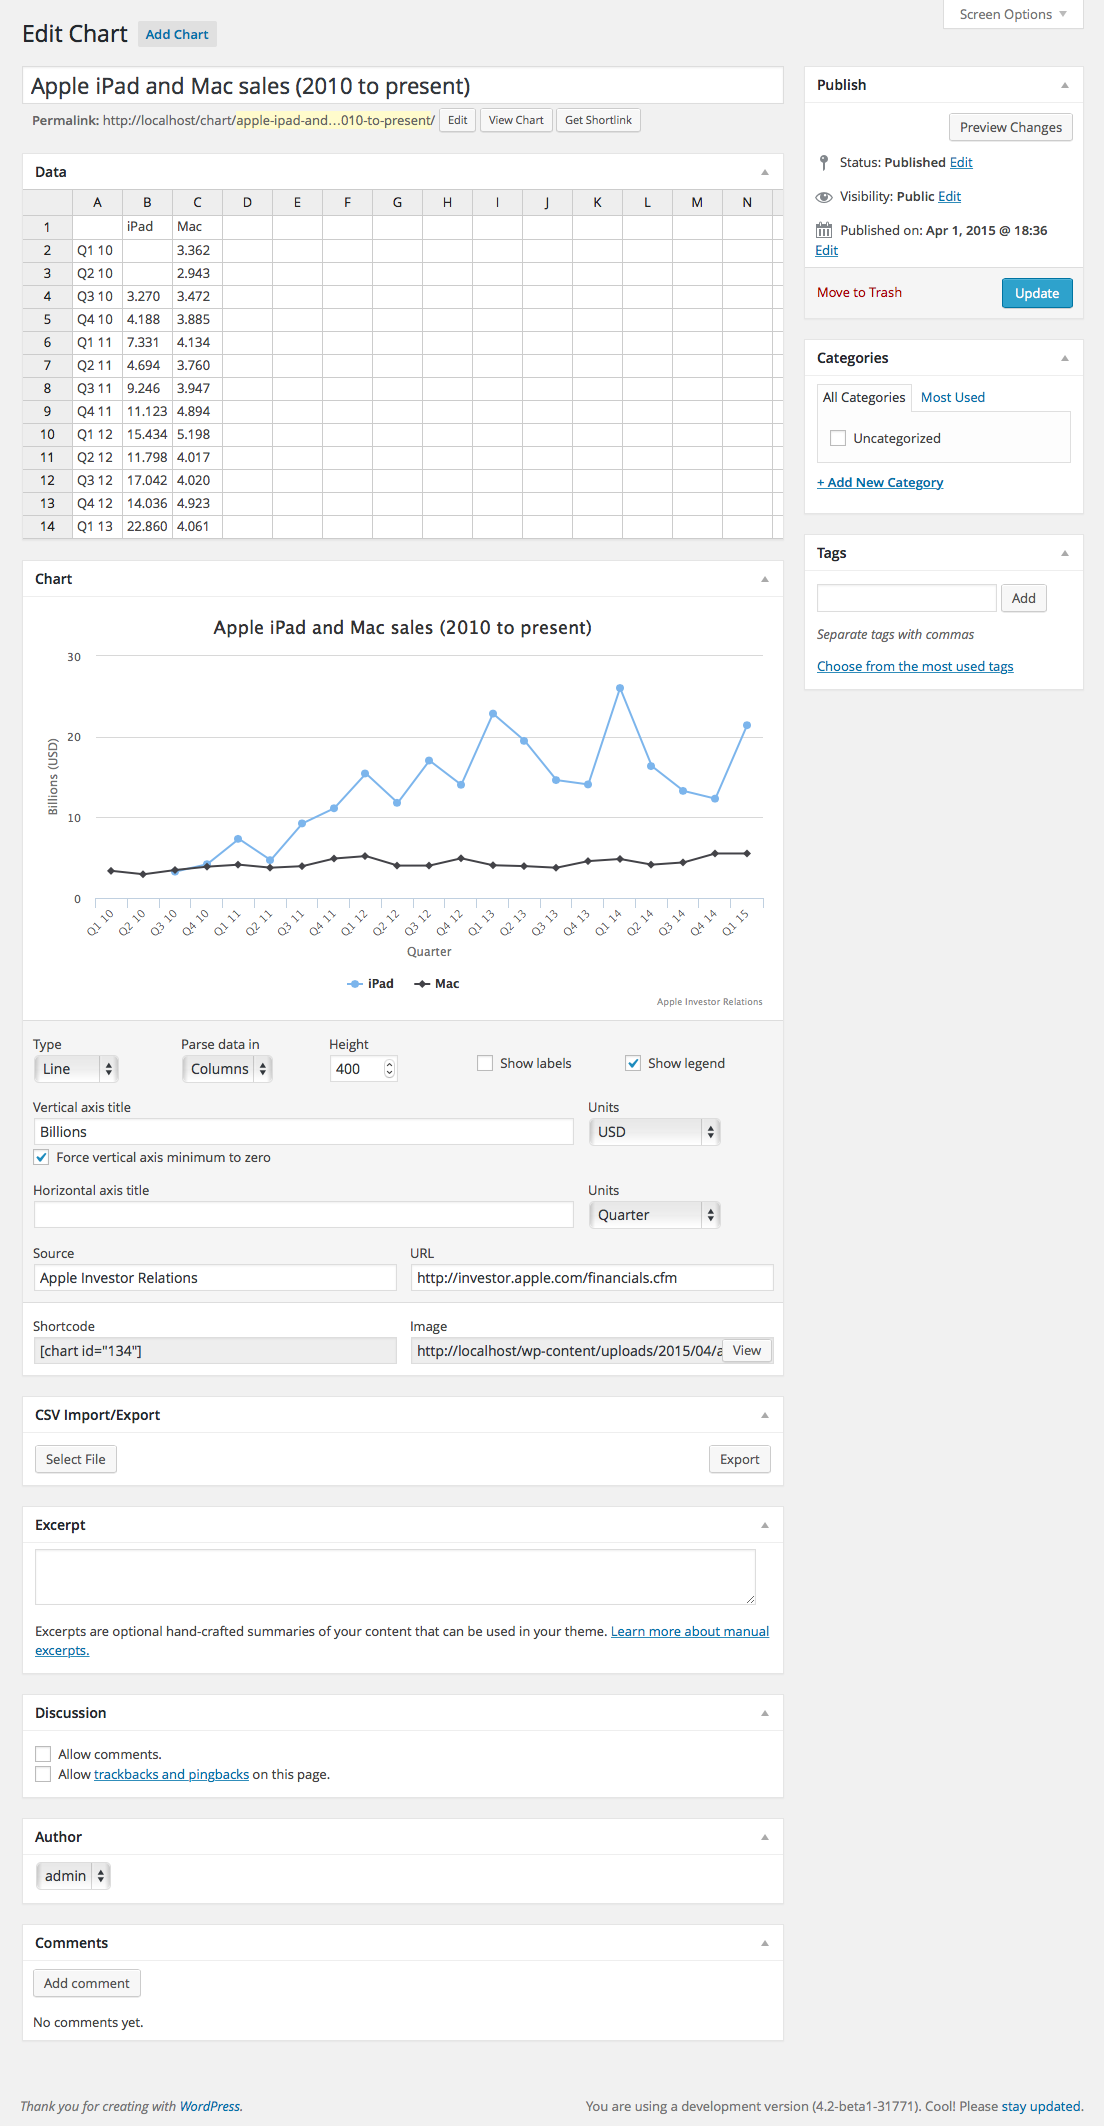
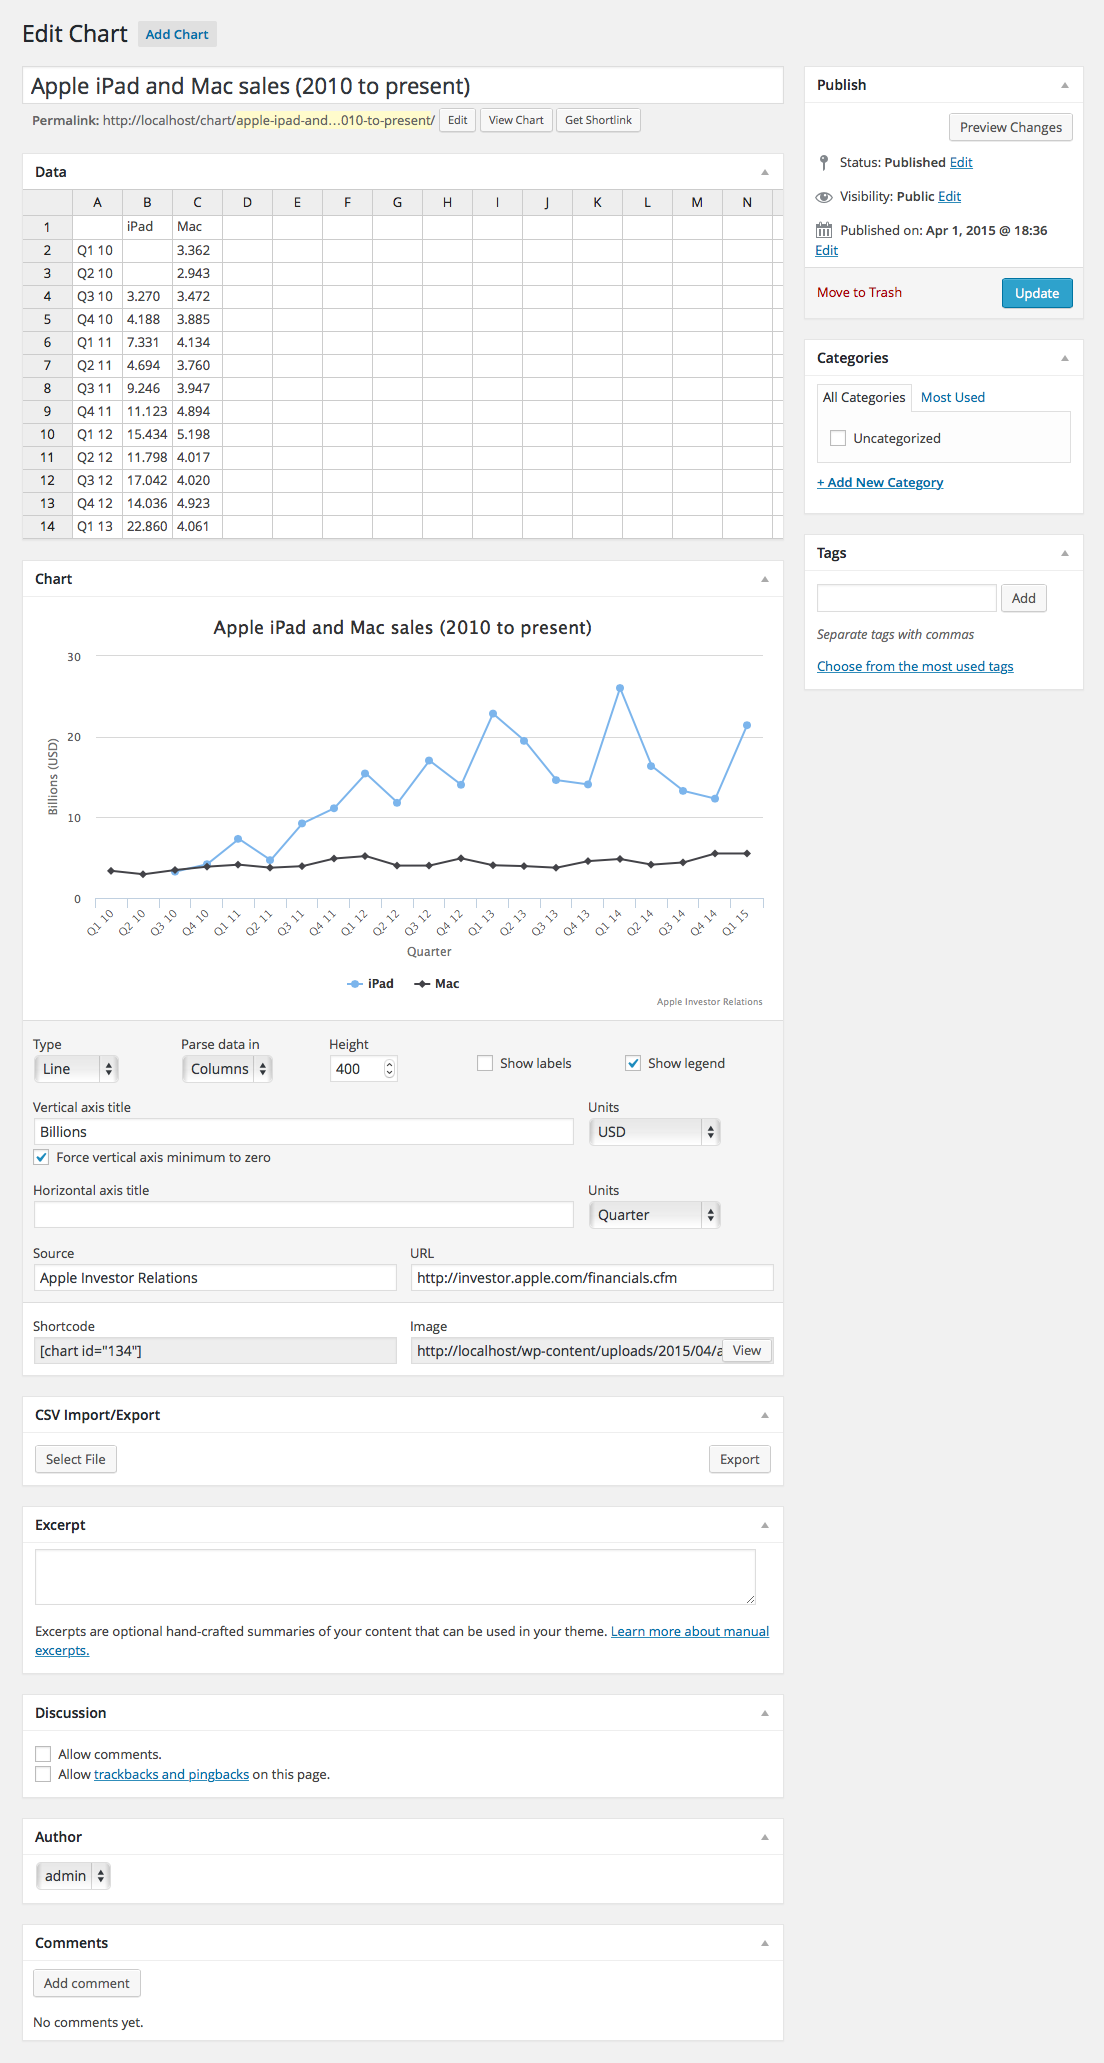
Misc Changes - Tweaked grunt stuff a bit - Fixed a type in the readme.txt and README.md files - Tweaked the screenshot a bit. - Fixed a long standing bug in the way data sets were handled when they only included 1 set of data with labels on only one axis

diff --git a/Gruntfile.js b/Gruntfile.js
@@ -62,14 +62,7 @@ module.exports = function( grunt ) {
 		clean: [ 'deploy' ]
 	});
 
-	// Default task.
-	grunt.loadNpmTasks( 'grunt-contrib-compass' );
-	grunt.loadNpmTasks( 'grunt-contrib-watch' );
-	grunt.loadNpmTasks( 'grunt-wp-readme-to-markdown' );
-	grunt.loadNpmTasks( 'grunt-scss-lint' );
-	grunt.loadNpmTasks( 'grunt-contrib-copy' );
-	grunt.loadNpmTasks( 'grunt-wp-deploy' );
-	grunt.loadNpmTasks( 'grunt-contrib-clean' );
+	require( 'matchdep' ).filterDev( 'grunt-*' ).forEach( grunt.loadNpmTasks );
 
 	grunt.registerTask( 'default', [ 'compass:prod', 'wp_readme_to_markdown', 'scsslint' ] );
 	grunt.registerTask( 'deploy', [ 'copy:deploy', 'wp_deploy:deploy', 'clean' ] );

diff --git a/components/class-m-chart-highcharts.php b/components/class-m-chart-highcharts.php
@@ -250,7 +250,7 @@ class M_Chart_Highcharts {
 		// When Highcharts encounters an empty data value it stops so we set them to NULL
 		$data_array = array_map( array( $this, 'fix_null_values' ), m_chart()->parse()->set_data );
 
-		if ( 'pie' != $this->post_meta['type'] ) {
+		if ( 'pie' != $this->post_meta['type'] && 'both' == m_chart()->parse()->value_labels_position ) {
 			$set_data = array();
 
 			if ( isset( m_chart()->parse()->value_labels['first_column'] ) ) {
@@ -283,23 +283,25 @@ class M_Chart_Highcharts {
 		}
 		else
 		{
-			$pie_data_array = array();
+			$new_data_array = array();
 
 			foreach ( $chart_args['xAxis']['categories'] as $key => $label ) {
-				$pie_data_array[ $key ] = array(
+				$new_data_array[ $key ] = array(
 					$label,
 					$data_array[ $key ],
 				);
 			}
 
-			// Don't need these anymore for pie charts
-			unset( $chart_args['xAxis']['categories'] );
+			if ( 'pie' == $this->post_meta['type'] ) {
+				// Don't need these anymore for pie charts
+				unset( $chart_args['xAxis']['categories'] );
+			}
 
 			$chart_args['series'] = array(
 				array(
-					'type'         => 'pie',
+					'type'         => $this->post_meta['type'],
 					'showInLegend' => true,
-					'data'         => $pie_data_array,
+					'data'         => $new_data_array,
 				),
 			);
 

diff --git a/README.md b/README.md
@@ -14,7 +14,7 @@ Allows you to manage data sets via a spreadsheet interface and present that data
 
 For full documentation please see the [Wiki](https://github.com/methnen/m-chart/wiki).
 
-To contribute, report issue, or make feature requests use [Github](https://github.com/methnen/m-chart).
+To contribute, report issues, or make feature requests use [Github](https://github.com/methnen/m-chart).
 
 ## Installation ##
 
